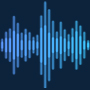
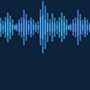
Feedback changes
Feedback changes

diff --git a/src/components/playlist/sass/playlist.scss b/src/components/playlist/sass/playlist.scss
@@ -304,7 +304,7 @@
                         .waveform {
                             display: flex;
                             justify-content: center;
-                            align-items: end;
+                            align-items: center;
                             margin: 0px auto;
                             position: absolute;
                             width: 100%;
